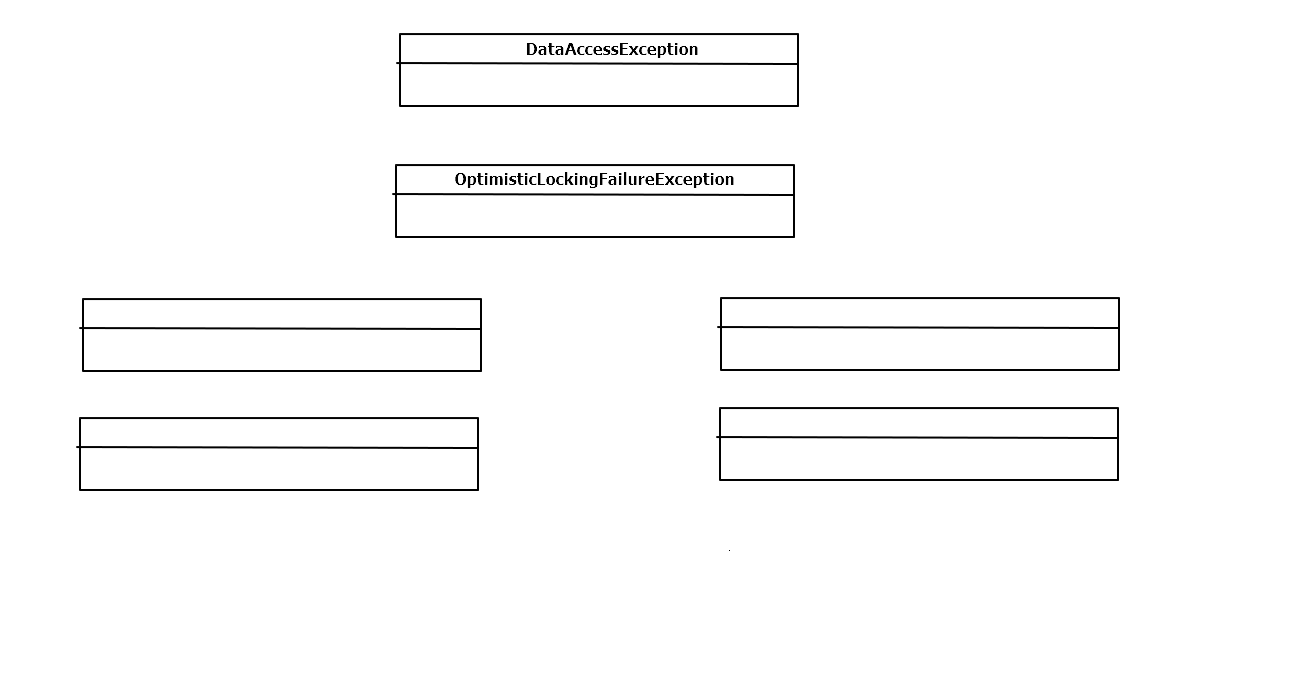
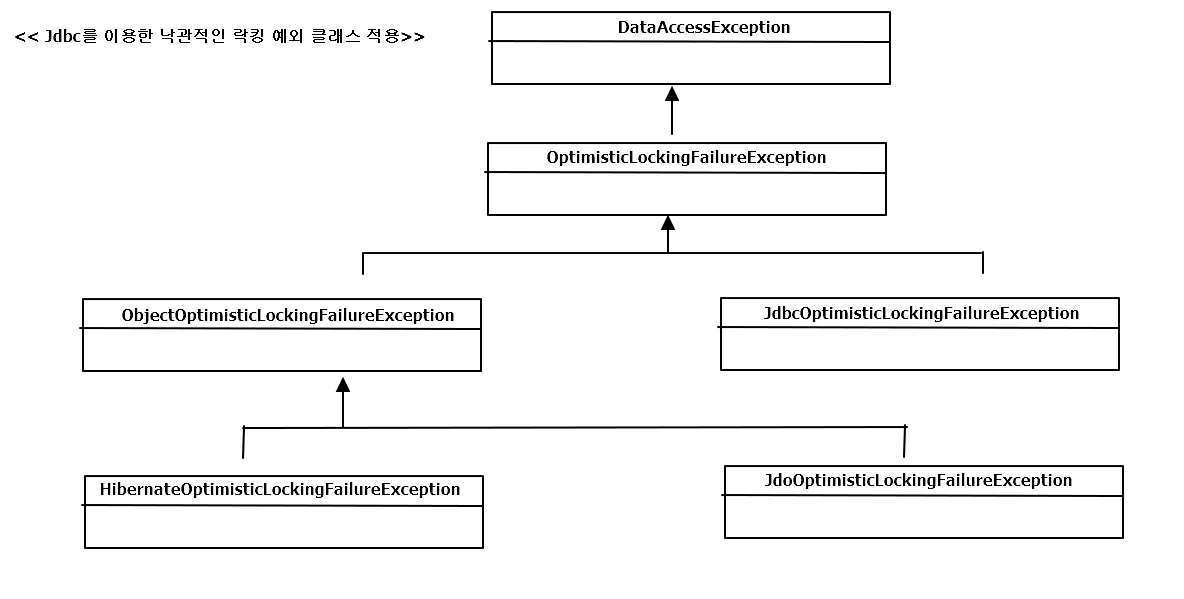
- chap04 예외 완료

diff --git a/toby_spring_vol1/chap04.예외/4.2.예외전환.md b/toby_spring_vol1/chap04.예외/4.2.예외전환.md
@@ -269,6 +269,7 @@ InvalidDataAccessResourceUsageException이 발생
 
 던져주므로 시스템 레벨의 예외처리 작업을 통해 개발자에게 빠르게 통보해주도록 만들 수 있음.
 
+
 => JDO,JPA,하이버네이트처럼 오브젝트/엔티티 단위로 정보를 업데이트하는 경우에는 낙관적인 락킹(optimistic locking)
 
 이 발생할 수 있음( 두 명 이상의 사용자가 동시에 조회하고 순차적으로 업데이트할 때, 뒤늦게 업데이트 한 것이 먼저 업데이트 한
@@ -282,77 +283,164 @@ ObjectOptimisticLockingFailureException으로 통일 가능.
 
 ![Jdbc를 이용한 낙관적인 락킹 예외 클래스의 적용](./pics/pic4-2.png)
 
+=> 기술에 상관없이 낙관적인 락킹이 발생했을 때 일관된 방식으로 예외처리를 하려면,
 
+OptimisticLockingFailureException을 잡도록 만들면 됨!
 
+추가적으로 IncorrectResultSizeDataAccessException 등 DataAccessException 계층 구조에는 
 
- 
+템플릿 메소드나 DAO 메소드에서 직접 활용할 수 있는 예외도 정의되어 있음.
 
 
 
+### 4.2.4 기술에 독립적인 UserDao 만들기
 
+**인터페이스 적용**
 
+1. 인터페이스 구분하기 위해 인터페이스 이름 앞에는 I라는 접두어를 붙이는 방법
+2. 인터페이스 이름은 가장 단순히 하고, 구현 클래스는 특징을 따르는 이름 <<사용
 
 
+---
 
+> UserDao 인터페이스
 
+<pre>
+...
+public interface UserDao {	
+	void add(User user);
+	User get(String id);
+	List<User> getAll();
+	void deleteAll();
+	int getCount();
+}
+...
+</pre>
 
+-> setDataSource() 메소드는 인터페이스 추가 하지 말기
 
+(UserDao의 구현 방법에 따라 변경될 수 있는 메소드이고, UserDao를 사용하는
 
+클라이언트가 알고 있을 필요도 X )
 
+> UserDao 클래스 이름 변경
 
+<pre>
+public class UserDaoJdbc implements UserDao {
+...	
+</pre>
 
+> 빈 클래스 변경
+<pre>
+&lt;bean id=&quot;userDao&quot; class=&quot;springbook.user.dao.UserDaoJdbc&quot;&gt;
+		&lt;property name=&quot;dataSource&quot; ref=&quot;dataSource&quot; /&gt;		
+&lt;/bean&gt;
+</pre>
 
+-> 보통 빈의 이름은 클래스 이름이 아니라 , 인터페이스 이름을 따르는 경우가 일반적.
 
+---
 
 
 
+**테스트 보완**
 
+<pre>
+public class UserDaoJdbcTest {
+	@Autowired
+	private UserDao dao;
+	...	
+</pre>
 
+*UserDaoJdbc로 변경 해야 하나?*
 
+-> 의도(테스트의 관심)에 따라서 작성하면 됨.
 
- 
+1. 구현 기술에 상관없이 DAO의 기능이 동작하는 데만 관심이 있다면, UserDao 인터페이스 참조 타입 선언
+2. 특정 기술을 사용한 UserDao의 구현 내용에 관심을 가지면, UserDaoJdbc로 선언
 
+![UserDao 인터페이스와 구현의 분리](./pics/pic4-3.png)
 
- 
+---
 
+> DataAccessException에 대한 테스트
 
+<pre>
+@Test(expected=DataAccessException.class)
+public void duplicateKey() {
+	dao.deleteAll();		
+	dao.add(user1);
+	dao.add(user1);
+}
+</pre>
 
+-> 성공 시 DataAccessException이 던져짐.
 
+-> 어떤 예외가 발생했는지 확인해보려면, 테스트를 실패하게 만들면 됨.(expected=Data... 지우고 테스트)
 
+=> org.springframework.dao.DuplicateKeyException: PreparedStatementCallback; ...
 
+=> DuplicateKeyException은 DataAccessException의 서브클래스로 
 
+DataIntegrityViolationException의 한 종류임을 알 수 있음.
 
+@Test(expected=DataIntegrityViolationException.class) 로 변경 후 테스트 성공하면
 
+좀더 정확한 예외 발생을 확인하는 테스트가 됨.
 
+---
 
 
 
+**DataAccessException 활용 시 주의사항**
 
+=> 스프링 3.x 버전 시점에서 (책 시점) DuplicateKeyException은 JDBC를 이용하는 경우에만 발생
 
+e.g : 하이버네이트는 중복 키가 발생하는 경우에 하이버네이트의 ConstraintViolationException 발생
 
+-> 제약조건을 위반하는 다른 상황에서도 동일한 예외가 발생하므로, DuplicateKeyException을 이용하는 
 
+경우에 비해 이용가치가 떨어짐.
 
+--- 
 
+> SQLException 전환 기능의 학습 테스트
 
+<pre>
+...
+@RunWith(SpringJUnit4ClassRunner.class)
+@ContextConfiguration("classpath:test-applicationContext.xml")
+public class UserDaoTest {	
+	@Autowired
+	private UserDao dao;
+	@Autowired
+	DataSource dataSource;
+	...	
+	@Test
+	public void sqlExceptionTranslate() {
+		dao.deleteAll();
+		try {
+			dao.add(user1);
+			dao.add(user1);
+		} catch(DuplicateKeyException ex) {
+			SQLException sqlEx = (SQLException)ex.getRootCause();
+			// 코드를 이용한 SQLException 전환
+			SQLExceptionTranslator set = 
+					new SQLErrorCodeSQLExceptionTranslator(this.dataSource);
+			assertThat(set.translate(null, null, sqlEx),
+					is(DuplicateKeyException.class));
+		}
+	}
+	...
+}
+</pre>
 
 
-
-
-
-
-
-
-
-
-
-
-
-
-
-
-
-
-
+1. 강제로 DuplicateKeyException을 발생
+2. getRoodCause()를 이용해 중첩되어 있는 SQLException을 가져옴
+3. DataSource를 이용해 SQLErrorCodeSQLExceptionTranslator 오브젝트 생성
+4. translate()를 이용해 DataAccessExcetpion 타입 예외로 변환
+5. DataAccessExcetpion이 DuplicateKeyException인지 check
 
 
 

diff --git a/toby_spring_vol1/chap04.예외/4.3.정리.md b/toby_spring_vol1/chap04.예외/4.3.정리.md
@@ -1,0 +1,20 @@
+1. 바람직한 예외처리 방법은 무엇인지 살펴봄.
+2. JDBC 예외의 단점 살피기, 스프링이 제공하는 효과적인
+
+데이터 엑세스 기술의 예외처리 전략과 기능 살펴봄
+
+**Summary**
+
+- 예외를 잡아서 아무런 조취를 취하지 않거나 의미 없는 throws 선언을 남발하는 것은 위험하다.
+- 예외는 복구하거나 예외처리 오브젝트로 의도적으로 전달하거나 적절한 예외로 전환해야 함
+- 좀 더 의미있는 예외로 변경하거나, 불필요한 catch/throws를 피하기 위해 런타임 예외로 포장하는
+두가지 방법의 예외 전환이 존재.
+- 복구할 수 없는 예외는 가능한 한 빨리 런타임 예외로 전환하는 것이 바람직.
+- 애플리케이션의 로직을 담기 위한 에외는 체크 예외로 만든다.
+- JDBC의 SQLException은 대부분 복구할 수 없는 예외이므로 런타임 예외로 포장해야 함
+- SQLException의 에러 코드는 DB에 종속되기 때문에 DB에 독립적인 예외로 전환될 필요가 있다
+- 스프링은 DataAccessException을 통해 DB에 독립적으로 적용 가능한 추상화된 런타임 예외 계층을 제공
+- DAO를 데이터 액세스 기술에서 독립시키려면 인터페이스 도입과 런타임 예외 전환, 기술에 독립적인 추상화된 
+예외로의 전환이 필요.
+
+
